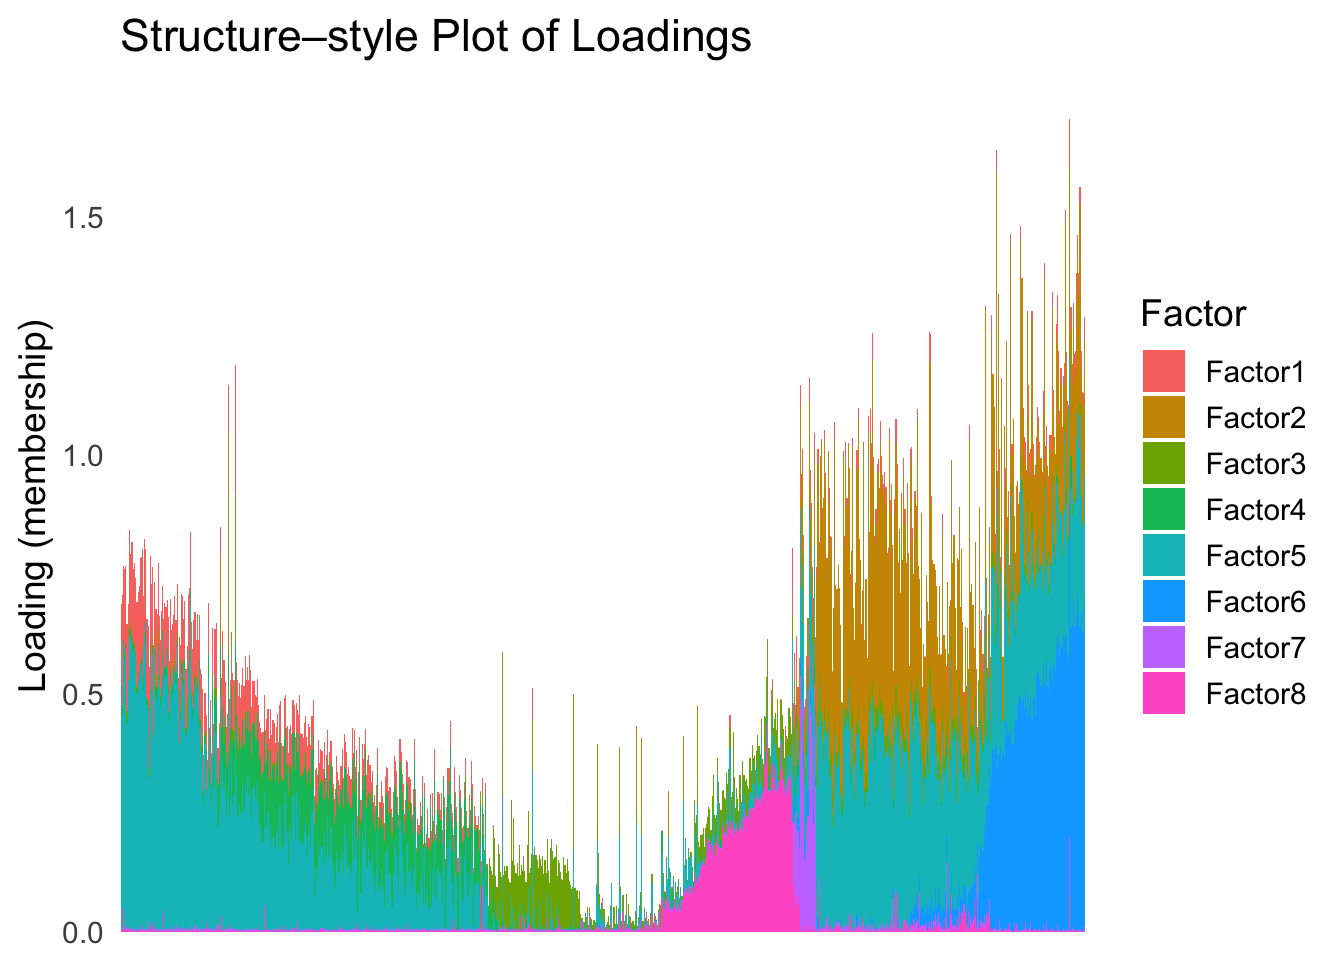
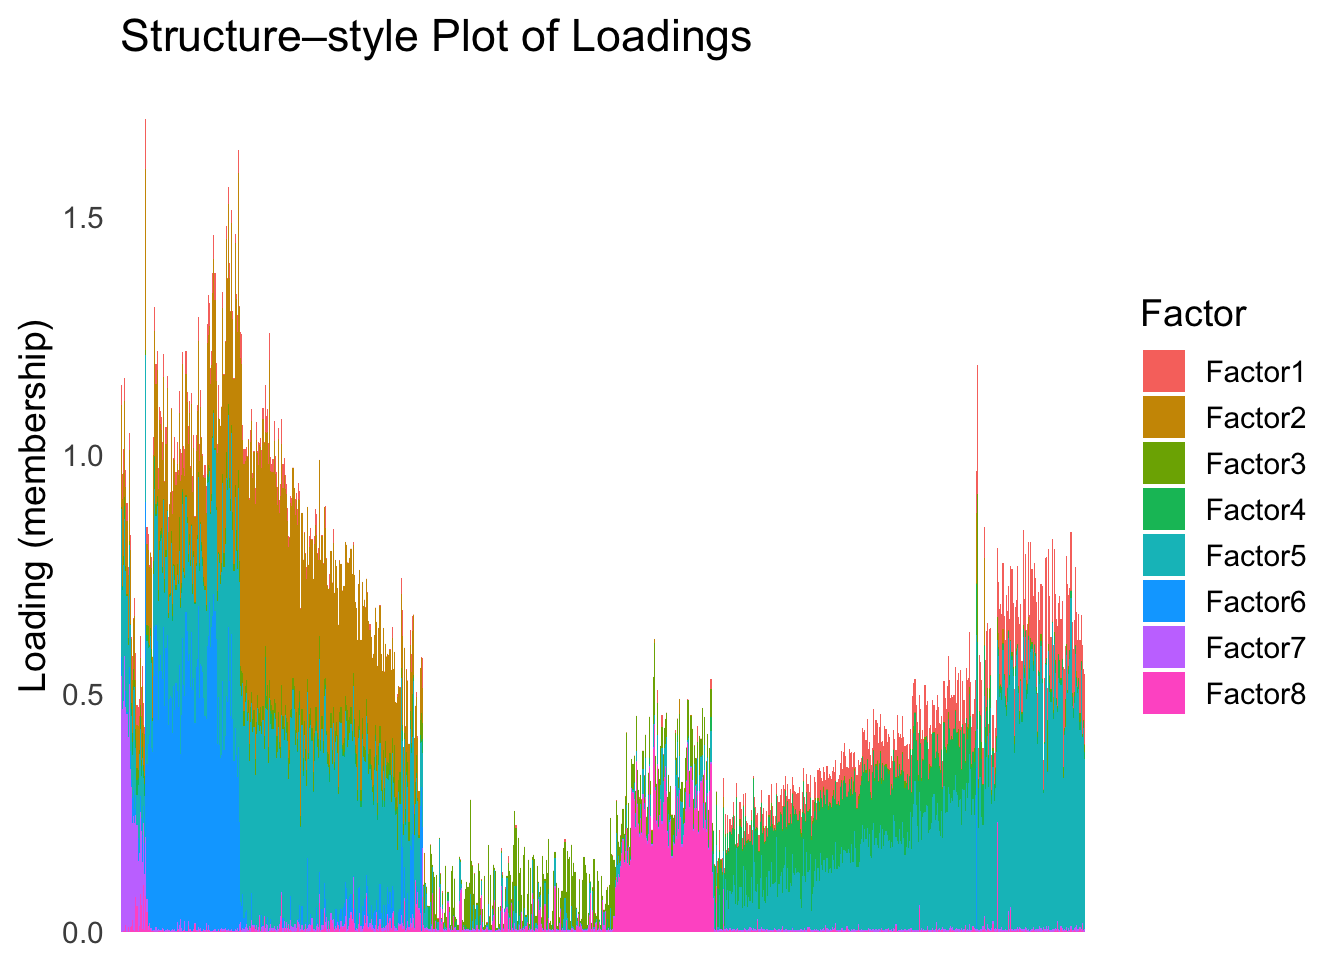
Build site.

Changed region(s): [[0.0625, 0.25, 0.8125, 0.9688]]

diff --git a/docs/explore_pancrea.html b/docs/explore_pancrea.html
@@ -510,15 +510,15 @@ project makes it easier to run your code on other machines.</p>
 <div class="panel panel-default">
 <div class="panel-heading">
 <p class="panel-title">
-<a data-toggle="collapse" data-parent="#workflowr-checks" href="#strongRepositoryversionstrongahrefhttpsgithubcomAgueroZZInferOrdertree07f531735e8fc96caa051cd2d4cb5d4e97470f11targetblank07f5317a">
+<a data-toggle="collapse" data-parent="#workflowr-checks" href="#strongRepositoryversionstrongahrefhttpsgithubcomAgueroZZInferOrdertree11166eff35113398bfab4dd3021f6e77f74667c9targetblank11166efa">
 <span class="glyphicon glyphicon-ok text-success"
 aria-hidden="true"></span> <strong>Repository version:</strong>
-<a href="https://github.com/AgueroZZ/InferOrder/tree/07f531735e8fc96caa051cd2d4cb5d4e97470f11" target="_blank">07f5317</a>
+<a href="https://github.com/AgueroZZ/InferOrder/tree/11166eff35113398bfab4dd3021f6e77f74667c9" target="_blank">11166ef</a>
 </a>
 </p>
 </div>
 <div
[2 lines of base64/hex data omitted]
 class="panel-collapse collapse">
 <div class="panel-body">
 <p>
@@ -528,7 +528,7 @@ reproducibility.
 </p>
 <p>
 The results in this page were generated with repository version
-<a href="https://github.com/AgueroZZ/InferOrder/tree/07f531735e8fc96caa051cd2d4cb5d4e97470f11" target="_blank">07f5317</a>.
+<a href="https://github.com/AgueroZZ/InferOrder/tree/11166eff35113398bfab4dd3021f6e77f74667c9" target="_blank">11166ef</a>.
 See the <em>Past versions</em> tab to see a history of the changes made
 to the R Markdown and HTML files.
 </p>
@@ -547,7 +547,6 @@ Ignored files:
     Ignored:    .Rhistory
     Ignored:    .Rproj.user/
     Ignored:    analysis/.DS_Store
-    Ignored:    analysis/figure/
     Ignored:    analysis/site_libs/
 
 Untracked files:
@@ -602,6 +601,40 @@ Message
 </tr>
 </thead>
 <tbody>
+<tr>
+<td>
+Rmd
+</td>
+<td>
+<a href="https://github.com/AgueroZZ/InferOrder/blob/11166eff35113398bfab4dd3021f6e77f74667c9/analysis/explore_pancrea.rmd" target="_blank">11166ef</a>
+</td>
+<td>
+Ziang Zhang
+</td>
+<td>
+2025-07-18
+</td>
+<td>
+workflowr::wflow_publish(files = "analysis/explore_pancrea.rmd")
+</td>
+</tr>
+<tr>
+<td>
+html
+</td>
+<td>
+<a href="https://rawcdn.githack.com/AgueroZZ/InferOrder/a0efb11d9d99b42603072019acfac3e5c63cf874/docs/explore_pancrea.html" target="_blank">a0efb11</a>
+</td>
+<td>
+Ziang Zhang
+</td>
+<td>
+2025-07-18
+</td>
+<td>
+Build site.
+</td>
+</tr>
 <tr>
 <td>
 Rmd
@@ -1045,6 +1078,17 @@ Date
 <tbody>
 <tr>
 <td>
+<a href="https://github.com/AgueroZZ/InferOrder/blob/a0efb11d9d99b42603072019acfac3e5c63cf874/docs/figure/explore_pancrea.rmd/unnamed-chunk-6-1.png" target="_blank">a0efb11</a>
+</td>
+<td>
+Ziang Zhang
+</td>
+<td>
+2025-07-18
+</td>
+</tr>
+<tr>
+<td>
 <a href="https://github.com/AgueroZZ/InferOrder/blob/5156f0de0ec499082a69afca6f273193c618c5af/docs/figure/explore_pancrea.rmd/unnamed-chunk-6-1.png" target="_blank">5156f0d</a>
 </td>
 <td>
@@ -1128,7 +1172,7 @@ Iteration 850: error is 0.428145 (50 iterations in 0.03 seconds)
 Iteration 900: error is 0.424017 (50 iterations in 0.03 seconds)
 Iteration 950: error is 0.420721 (50 iterations in 0.03 seconds)
 Iteration 1000: error is 0.417580 (50 iterations in 0.03 seconds)
-Fitting performed in 0.58 seconds.</code></pre>
+Fitting performed in 0.59 seconds.</code></pre>
 <pre class="r"><code>tsne_metric &lt;- tsne$Y[,1]
 tsne_order &lt;- order(tsne_metric)
 names(tsne_metric) &lt;- rownames(Loadings)</code></pre>
@@ -1303,6 +1347,17 @@ Date
 </tr>
 </thead>
 <tbody>
+<tr>
+<td>
+<a href="https://github.com/AgueroZZ/InferOrder/blob/a0efb11d9d99b42603072019acfac3e5c63cf874/docs/figure/explore_pancrea.rmd/unnamed-chunk-10-1.png" target="_blank">a0efb11</a>
+</td>
+<td>
+Ziang Zhang
+</td>
+<td>
+2025-07-18
+</td>
+</tr>
 <tr>
 <td>
 <a href="https://github.com/AgueroZZ/InferOrder/blob/5156f0de0ec499082a69afca6f273193c618c5af/docs/figure/explore_pancrea.rmd/unnamed-chunk-10-1.png" target="_blank">5156f0d</a>
@@ -1542,6 +1597,17 @@ Date
 <tbody>
 <tr>
 <td>
+<a href="https://github.com/AgueroZZ/InferOrder/blob/a0efb11d9d99b42603072019acfac3e5c63cf874/docs/figure/explore_pancrea.rmd/unnamed-chunk-14-1.png" target="_blank">a0efb11</a>
+</td>
+<td>
+Ziang Zhang
+</td>
+<td>
+2025-07-18
+</td>
+</tr>
+<tr>
+<td>
 <a href="https://github.com/AgueroZZ/InferOrder/blob/5156f0de0ec499082a69afca6f273193c618c5af/docs/figure/explore_pancrea.rmd/unnamed-chunk-14-1.png" target="_blank">5156f0d</a>
 </td>
 <td>
@@ -1777,6 +1843,17 @@ Date
 <tbody>
 <tr>
 <td>
+<a href="https://github.com/AgueroZZ/InferOrder/blob/a0efb11d9d99b42603072019acfac3e5c63cf874/docs/figure/explore_pancrea.rmd/unnamed-chunk-18-1.png" target="_blank">a0efb11</a>
+</td>
+<td>
+Ziang Zhang
+</td>
+<td>
+2025-07-18
+</td>
+</tr>
+<tr>
+<td>
 <a href="https://github.com/AgueroZZ/InferOrder/blob/5156f0de0ec499082a69afca6f273193c618c5af/docs/figure/explore_pancrea.rmd/unnamed-chunk-18-1.png" target="_blank">5156f0d</a>
 </td>
 <td>
@@ -1997,6 +2074,17 @@ Date
 </tr>
 </thead>
 <tbody>
+<tr>
+<td>
+<a href="https://github.com/AgueroZZ/InferOrder/blob/a0efb11d9d99b42603072019acfac3e5c63cf874/docs/figure/explore_pancrea.rmd/unnamed-chunk-22-1.png" target="_blank">a0efb11</a>
+</td>
+<td>
+Ziang Zhang
+</td>
+<td>
+2025-07-18
+</td>
+</tr>
 <tr>
 <td>
 <a href="https://github.com/AgueroZZ/InferOrder/blob/5156f0de0ec499082a69afca6f273193c618c5af/docs/figure/explore_pancrea.rmd/unnamed-chunk-22-1.png" target="_blank">5156f0d</a>
@@ -2494,7 +2582,7 @@ the PCA.</p>
 <p>Now, let’s try the smooth-EM algorithm with a first order random walk
 prior.</p>
 <pre class="r"><code>set.seed(1234567)
-Q_prior_RW1 &lt;- make_random_walk_precision(K=100, d=ncol(Loadings), lambda = 100, q=1, ridge = 1e-10)
+Q_prior_RW1 &lt;- make_random_walk_precision(K=100, d=ncol(Loadings), lambda = 50, q=1, ridge = 1e-10)
 # Random initialization
 init_params &lt;- make_default_init(Loadings, K=100)
 # # Initalize based on the tSNE metric
@@ -2509,28 +2597,21 @@ result_RW1 &lt;- EM_algorithm(
   relative_lambda = TRUE,
   verbose = TRUE
 )</code></pre>
-<pre><code>Iteration   1: objective = 11232.102977
-Iteration   2: objective = 15281.746298
-Iteration   3: objective = 15282.962180
-Iteration   4: objective = 15288.854020
-Iteration   5: objective = 15316.735060
-Iteration   6: objective = 15431.723006
-Iteration   7: objective = 15745.678310
-Iteration   8: objective = 16354.229530
-Iteration   9: objective = 17354.919050
-Iteration  10: objective = 18319.466769
-Iteration  11: objective = 18760.874112
-Iteration  12: objective = 19122.829411
-Iteration  13: objective = 19268.214652
-Iteration  14: objective = 19355.206446
-Iteration  15: objective = 19445.598967
-Iteration  16: objective = 19458.961306
-Iteration  17: objective = 19469.820603
-Iteration  18: objective = 19515.456069
-Iteration  19: objective = 19580.940523
-Iteration  20: objective = 19595.348562
-Iteration  21: objective = 19580.023511
-Objective decreased at iteration 21, final objective = 19595.348562</code></pre>
+<pre><code>Iteration   1: objective = 10677.631022
+Iteration   2: objective = 14727.368737
+Iteration   3: objective = 14728.880418
+Iteration   4: objective = 14735.971788
+Iteration   5: objective = 14768.046526
+Iteration   6: objective = 14893.329661
+Iteration   7: objective = 15228.500370
+Iteration   8: objective = 15922.260384
+Iteration   9: objective = 17161.503425
+Iteration  10: objective = 18324.292473
+Iteration  11: objective = 19233.057353
+Iteration  12: objective = 19799.144576
+Iteration  13: objective = 20032.221430
+Iteration  14: objective = 19939.724985
+Objective decreased at iteration 14, final objective = 20032.221430</code></pre>
 <pre class="r"><code>result_RW1$clustering &lt;- apply(result_RW1$gamma, 1, which.max)
 loadings_order_RW1 &lt;- order(result_RW1$clustering)
 plot_structure(Loadings, order = rownames(Loadings)[loadings_order_RW1])</code></pre>
@@ -2557,6 +2638,17 @@ Date
 </tr>
 </thead>
 <tbody>
+<tr>
+<td>
+<a href="https://github.com/AgueroZZ/InferOrder/blob/a0efb11d9d99b42603072019acfac3e5c63cf874/docs/figure/explore_pancrea.rmd/unnamed-chunk-31-1.png" target="_blank">a0efb11</a>
+</td>
+<td>
+Ziang Zhang
+</td>
+<td>
+2025-07-18
+</td>
+</tr>
 <tr>
 <td>
 <a href="https://github.com/AgueroZZ/InferOrder/blob/5156f0de0ec499082a69afca6f273193c618c5af/docs/figure/explore_pancrea.rmd/unnamed-chunk-31-1.png" target="_blank">5156f0d</a>
@@ -2635,6 +2727,17 @@ Date
 <tbody>
 <tr>
 <td>
+<a href="https://github.com/AgueroZZ/InferOrder/blob/a0efb11d9d99b42603072019acfac3e5c63cf874/docs/figure/explore_pancrea.rmd/unnamed-chunk-32-1.png" target="_blank">a0efb11</a>
+</td>
+<td>
+Ziang Zhang
+</td>
+<td>
+2025-07-18
+</td>
+</tr>
+<tr>
+<td>
 <a href="https://github.com/AgueroZZ/InferOrder/blob/5156f0de0ec499082a69afca6f273193c618c5af/docs/figure/explore_pancrea.rmd/unnamed-chunk-32-1.png" target="_blank">5156f0d</a>
 </td>
 <td>
@@ -2687,12 +2790,12 @@ others, and the ordering seems to make sense.</p>
 <div id="smooth-em-with-rw2-prior" class="section level3">
 <h3>Smooth-EM with RW2 prior</h3>
 <p>Next, we will try the RW2 prior in the smooth-EM algorithm.</p>
-<pre class="r"><code>Q_prior_RW2 &lt;- make_random_walk_precision(K=100, d=ncol(Loadings), lambda = 150, q=2, ridge = 1e-10)
+<pre class="r"><code>Q_prior_RW2 &lt;- make_random_walk_precision(K=100, d=ncol(Loadings), lambda = 3000, q=2, ridge = 1e-10)
 set.seed(12345)
 # Random initialization
 init_params &lt;- make_default_init(Loadings, K=100)
-# Initialize based on the tSNE metric
-init_params &lt;- make_init(X = Loadings, ordering_vec = tsne_metric, K = 100)
+# # Initialize based on the tSNE metric
+# init_params &lt;- make_init(X = Loadings, ordering_vec = tsne_metric, K = 100)
 result_RW2 &lt;- EM_algorithm(
   data = Loadings,
   Q_prior = Q_prior_RW2,
@@ -2703,42 +2806,26 @@ result_RW2 &lt;- EM_algorithm(
   relative_lambda = TRUE,
   verbose = TRUE
 )</code></pre>
-<pre><code>Iteration   1: objective = 21374.253528
-Iteration   2: objective = 22622.590593
-Iteration   3: objective = 22847.058863
-Iteration   4: objective = 23024.741497
-Iteration   5: objective = 23175.582912
-Iteration   6: objective = 23309.039921
-Iteration   7: objective = 23322.340888
-Iteration   8: objective = 23353.301451
-Iteration   9: objective = 23390.711278
-Iteration  10: objective = 23411.922729
-Iteration  11: objective = 23427.811932
-Iteration  12: objective = 23436.822137
-Iteration  13: objective = 23447.947265
-Iteration  14: objective = 23458.543825
-Iteration  15: objective = 23471.063177
-Iteration  16: objective = 23485.539964
-Iteration  17: objective = 23493.686952
-Iteration  18: objective = 23502.169237
-Iteration  19: objective = 23520.060291
-Iteration  20: objective = 23542.040743
-Iteration  21: objective = 23576.189882
-Iteration  22: objective = 23624.010187
-Iteration  23: objective = 23650.420005
-Iteration  24: objective = 23653.355764
-Iteration  25: objective = 23662.143511
-Iteration  26: objective = 23668.283589
-Iteration  27: objective = 23670.596838
-Iteration  28: objective = 23671.806716
-Iteration  29: objective = 23673.003905
-Iteration  30: objective = 23674.153999
-Iteration  31: objective = 23675.015377
-Iteration  32: objective = 23675.736833
-Iteration  33: objective = 23676.652675
-Iteration  34: objective = 23677.113758
-Iteration  35: objective = 23676.773944
-Objective decreased at iteration 35, final objective = 23677.113758</code></pre>
+<pre><code>Iteration   1: objective = 13859.443722
+Iteration   2: objective = 17908.957791
+Iteration   3: objective = 17909.681551
+Iteration   4: objective = 17912.985547
+Iteration   5: objective = 17928.184297
+Iteration   6: objective = 17993.579863
+Iteration   7: objective = 18201.389814
+Iteration   8: objective = 18692.349314
+Iteration   9: objective = 19702.748745
+Iteration  10: objective = 20847.322957
+Iteration  11: objective = 21665.890331
+Iteration  12: objective = 22189.086201
+Iteration  13: objective = 22417.285186
+Iteration  14: objective = 22547.042956
+Iteration  15: objective = 22737.621546
+Iteration  16: objective = 23051.048116
+Iteration  17: objective = 23511.695585
+Iteration  18: objective = 23614.226787
+Iteration  19: objective = 23558.023583
+Objective decreased at iteration 19, final objective = 23614.226787</code></pre>
 <pre class="r"><code>result_RW2$clustering &lt;- apply(result_RW2$gamma, 1, which.max)
 loadings_order_RW2 &lt;- order(result_RW2$clustering)
 plot_structure(Loadings, order = rownames(Loadings)[loadings_order_RW2])</code></pre>
@@ -2765,6 +2852,17 @@ Date
 </tr>
 </thead>
 <tbody>
+<tr>
+<td>
+<a href="https://github.com/AgueroZZ/InferOrder/blob/a0efb11d9d99b42603072019acfac3e5c63cf874/docs/figure/explore_pancrea.rmd/unnamed-chunk-34-1.png" target="_blank">a0efb11</a>
+</td>
+<td>
+Ziang Zhang
+</td>
+<td>
+2025-07-18
+</td>
+</tr>
 <tr>
 <td>
 <a href="https://github.com/AgueroZZ/InferOrder/blob/5156f0de0ec499082a69afca6f273193c618c5af/docs/figure/explore_pancrea.rmd/unnamed-chunk-34-1.png" target="_blank">5156f0d</a>
@@ -2841,6 +2939,17 @@ Date
 </tr>
 </thead>
 <tbody>
+<tr>
+<td>
+<a href="https://github.com/AgueroZZ/InferOrder/blob/a0efb11d9d99b42603072019acfac3e5c63cf874/docs/figure/explore_pancrea.rmd/unnamed-chunk-35-1.png" target="_blank">a0efb11</a>
+</td>
+<td>
+Ziang Zhang
+</td>
+<td>
+2025-07-18
+</td>
+</tr>
 <tr>
 <td>
 <a href="https://github.com/AgueroZZ/InferOrder/blob/5156f0de0ec499082a69afca6f273193c618c5af/docs/figure/explore_pancrea.rmd/unnamed-chunk-35-1.png" target="_blank">5156f0d</a>
